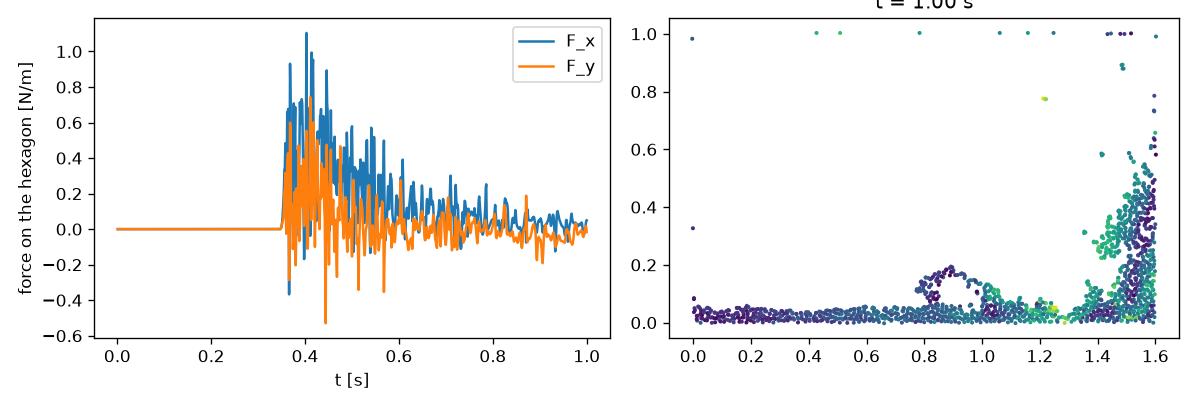
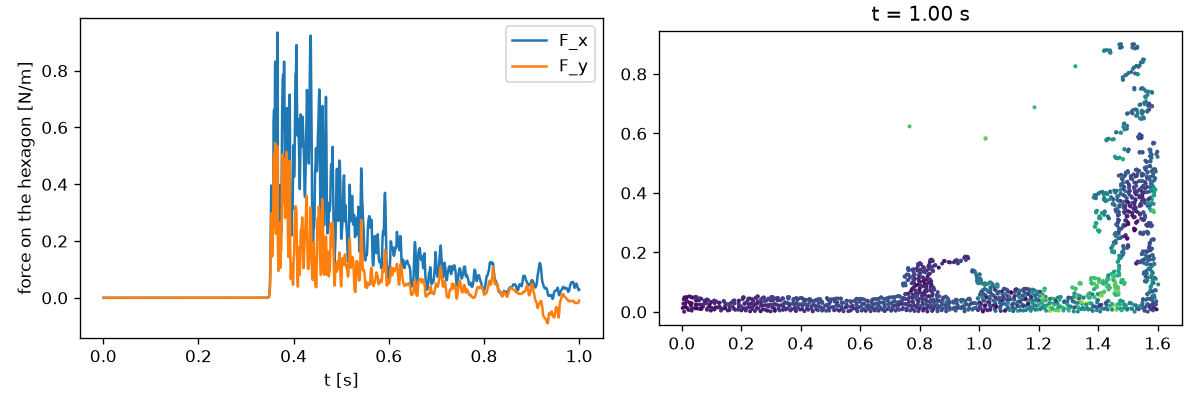
DFSPH: remove wall suction (ceiling/wall sticking), keep fluid cohesion; dam-break run and video tools
A moving body puts the wall into the divergence solve, where the signed divergence pressure acts as a wall suction, and the hydrostatic wall term is an
unclamped negative p_b at a ceiling. wallDivergenceClamp (default: iff the wall is in the divergence solve) clamps the pressure only in the wall term;
clampWallPressure clamps the effective wall pressure p_i + q at 0 (normal offset only, so representations still agree to round-off). Clamping the divergence
pressure of all particles removes the fluid cohesion (mean density 0.7), so divergenceClamp stays opt-in.

Dam break vs omniSPH at 2k and 8k particles matches (mean height 0.5 %, ceiling contact and residence), runs at 22k/33k particles.
dfsph_runcase (snapshot runs), dfsph_video (mp4, ceiling_stats), 2 regression tests, docs section 7, refreshed obstacle numbers and figure.

diff --git a/python/edgebound/dfsph2d.py b/python/edgebound/dfsph2d.py
@@ -170,13 +170,18 @@ class DFSPHConfig:
     maxIterations: int = 256
     divergenceMaxIterations: int = 3         # omniSPH: the divergence loop always runs exactly 4 iterations
     minIterations: int = 4
-    divergenceClamp: bool = False            # clamp the divergence pressure at >= 0 as the density pressure is (omniSPH does not; needed for many divergence iterations with a moving wall)
+    divergenceClamp: bool = False            # clamp the divergence pressure of ALL particles at >= 0 as the density pressure is (omniSPH does not: its negative divergence pressure is the cohesion that keeps
+                                             # the fluid together after a splash; clamping it expands the fluid by ~30 %).  Needed only for many divergence iterations with a moving wall
+    wallDivergenceClamp: Optional[bool] = None   # clamp the divergence pressure only where it enters the WALL acceleration (fluid-fluid terms keep the signed pressure).  None: iff the wall is in the divergence solve.
+                                             # An unclamped negative pressure there is a wall suction: with a moving body (wall in the divergence solve) a particle leaving a wall is pulled back and
+                                             # fluid sticks to every wall, ceiling included (docs/dfsph-validation.md s.8)
     boundaryInDivergence: Optional[bool] = None   # omniSPH's divergence solve ignores the wall; True adds the wall flux, alpha and wall pressure acceleration (no clamp);
                                                   # None: True iff a body moves (a moving wall has a normal velocity the divergence solve must see)
     recordForces: bool = True
     gradientCorrection: str = "none"         # 'wall': zeroth-order consistent wall closure (docs/dfsph-validation.md s.7): the wall gradient of the p_i terms is scaled so that a uniform pressure
                                              #   exerts no net force on a wall-contact particle, s_i = clip(-(sum_j V_j grad W_ij).n / |grad lambda|, 1 - kappa, 1 + kappa)
     closureLimit: float = 0.2                # kappa
+    clampWallPressure: bool = True          # p_b >= 0 (omniSPH clamps the extrapolated wall pressure in the density solve): the hydrostatic wall term can never be a suction, e.g. at a ceiling
     omega: float = 0.5
     xsph: float = 1e-4
     boundaryFriction: float = 5e-3
@@ -231,6 +236,7 @@ class DFSPH2D:
             self.sClose = self._closure()
             self.gk = self.sClose[:, None] * self.gk
             self._out1 = None
+            self._theta_q = None
         else:
             self.lam = torch.zeros_like(self.V)
             self.gk = torch.zeros_like(self.x)
@@ -307,8 +313,23 @@ class DFSPH2D:
             return torch.zeros((self.nb, len(self.x), 2) if perBody else self.x.shape, dtype=F64, device=self.dev)
         pp = p.clamp(min=0) if clamp else p
         pfac = (pp / self.rho ** 2 + pp) * self.sClose
-        out = -pfac[None, :, None] * self.gkb - self._a1_part(pp)
+        a1 = self._a1_part(pp)
+        if self.cfg.clampWallPressure and self.cfg.wallPressure == "hydrostatic":
+            a1 = a1 - self._wall_excess(pp)[:, :, None] * self.gkb
+        out = -pfac[None, :, None] * self.gkb - a1
         return out if perBody else out.sum(0)
+
+    def _wall_excess(self, pp):
+        """p_b >= 0.  To leading order the hydrostatic term mu int (a1.y) grad W is an effective wall pressure offset q (per body) times the wall gradient, q = (term . n) / |mu grad lambda|, n = grad lambda / |grad lambda|
+        (q < 0: the wall is above the particle, p_b = p_i + rho g.(x' - x_i) < p_i).  The effective wall pressure p_i + q is clamped at 0: with theta = clip(p_i / (-q), 0, 1) for q < 0 (theta = 1 where the wall is below or beside
+        the particle, or the particle's own pressure carries the offset) only the normal pressure offset is reduced, the term loses (1 - theta) q grad lambda (-> 0 continuously for q -> 0, so round-off cannot flip it; the tangential part is untouched)."""
+        if self._theta_q is None:
+            a1 = self._a1_part(pp)
+            eps = 1e-5 * self.cfg.wallMass / float(self.h.min())          # |mu grad lambda| ~ mu / h in contact: below 1e-5 of that the wall force is negligible and the ratio is round-off
+            self._theta_q = (a1 * self.gkb).sum(2) / (self.gkb * self.gkb).sum(2).clamp(min=eps * eps)
+        q = self._theta_q
+        theta = torch.where(q < 0, (pp[None, :] / (-q).clamp(min=1e-300)).clamp(0.0, 1.0), torch.ones_like(q))
+        return (1.0 - theta) * q
 
     def _a1_part(self, pp):
         """mu int (a1_i . y) grad W per body [B,N,2]."""
@@ -366,7 +387,7 @@ class DFSPH2D:
         counter = 0
         while True:
             clampP = density or cfg.divergenceClamp
-            pred = (self._boundary_accel(p2, clampP) if wall else torch.zeros_like(self.x)) + self._fluid_accel(p2)
+            pred = (self._boundary_accel(p2, density or clampP or self._clampWallDiv) if wall else torch.zeros_like(self.x)) + self._fluid_accel(p2)
             p1 = p2
             ks = dt * dt * self._sum(Vt[j] * ((pred[i] - pred[j]) * self.gW).sum(1))
             if wall:
@@ -383,7 +404,7 @@ class DFSPH2D:
                 break
         pred = self._fluid_accel(p2)
         if wall and self.scene is not None:
-            ab = self._boundary_accel(p2, density or cfg.divergenceClamp, perBody=True)                         # [B,N,2]: acceleration of the fluid by each body
+            ab = self._boundary_accel(p2, density or cfg.divergenceClamp or self._clampWallDiv, perBody=True)                         # [B,N,2]: acceleration of the fluid by each body
             pred = pred + ab.sum(0)
             self.forcePressure = self.forcePressure - (self.V[None, :, None] * ab).sum(1)    # force of the fluid on each body (m_i = V_i, rest density 1)
         if density:
@@ -395,6 +416,7 @@ class DFSPH2D:
     def step(self):
         cfg, dt = self.cfg, self.dt
         self._bdiv = cfg.boundaryInDivergence if cfg.boundaryInDivergence is not None else self._moving()
+        self._clampWallDiv = cfg.wallDivergenceClamp if cfg.wallDivergenceClamp is not None else self._bdiv
         self.forcePressure = torch.zeros((self.nb, 2), dtype=F64, device=self.dev)
         self.forceFriction = torch.zeros((self.nb, 2), dtype=F64, device=self.dev)
         self._prepare()

diff --git a/python/edgebound/dfsph_video.py b/python/edgebound/dfsph_video.py
@@ -1,0 +1,90 @@
+"""Render dam-break snapshots (npz from `.tmp/omni/runcase.py`-style runs: t, x [F,N,2], v, rho, p, lo, hi, r) as an mp4, one panel per run, particles coloured by speed.
+
+    python -m edgebound.dfsph_video out.mp4 "omniSPH=runs/omni.npz" "ours=runs/ours.npz" [--vmax 5] [--fps 30]
+"""
+import subprocess
+import sys
+
+import numpy as np
+
+
+def render(out, runs, vmax=5.0, fps=30, width=None, color="speed", t_max=None):
+    import matplotlib
+    matplotlib.use("Agg")
+    import matplotlib.pyplot as plt
+    from matplotlib.patches import Polygon
+    data = [(name, np.load(f)) for name, f in runs]
+    nF = min(len(d["t"]) for _, d in data)
+    if t_max is not None:
+        nF = min(nF, int(np.searchsorted(data[0][1]["t"], t_max)) + 1)
+    lo, hi = data[0][1]["lo"], data[0][1]["hi"]
+    width = width or (7.0 if data[0][1]["x"].shape[1] < 5000 else 11.0)          # more pixels per particle at high counts
+    pad, padTop = 0.05, 0.14
+    ar = (hi[1] - lo[1] + pad + padTop) / (hi[0] - lo[0] + 2 * pad)
+    k = len(data)
+    fig, axs = plt.subplots(k, 1, figsize=(width, width * ar * k + 0.5 * k), dpi=100, squeeze=False)
+    axs = axs[:, 0]
+    r = float(data[0][1]["r"])
+    # marker size in points^2 for a disc of radius ~ r (the lattice spacing is 0.89 h / sqrt(20) ... ~ 1.79 r): s = (2 r px)^2
+    fig.canvas.draw()
+    w_px = axs[0].get_window_extent().width
+    pt = (2 * r * 1.0) / (hi[0] - lo[0] + 2 * pad) * w_px * 72 / fig.dpi
+    sc = []
+    for ax, (name, d) in zip(axs, data):
+        ax.set_xlim(lo[0] - pad, hi[0] + pad)
+        ax.set_ylim(lo[1] - pad, hi[1] + padTop)
+        ax.set_aspect("equal")
+        ax.plot([lo[0], hi[0], hi[0], lo[0], lo[0]], [lo[1], lo[1], hi[1], hi[1], lo[1]], "k-", lw=1.2)
+        ax.set_xticks([])
+        ax.set_yticks([])
+        s = ax.scatter(d["x"][0][:, 0], d["x"][0][:, 1], s=pt ** 2, c=np.zeros(len(d["x"][0])), cmap="viridis", vmin=0, vmax=vmax, marker="o", linewidths=0)
+        lab = ax.text(0.005, 0.995, name, transform=ax.transAxes, va="top", ha="left", fontsize=10, fontweight="bold")
+        tt = ax.text(0.995, 0.995, "", transform=ax.transAxes, va="top", ha="right", fontsize=10)
+        lab.set_in_layout(False)
+        tt.set_in_layout(False)
+        sc.append((s, lab))
+        if "body" in d.files:                                                       # hexagonal obstacle (circumradius 0.06, pose [cx, cy, angle]) as a patch
+            ax.add_patch(Polygon(np.zeros((6, 2)), closed=True, facecolor="0.55", edgecolor="k", lw=1.0, zorder=3))
+    fig.tight_layout(pad=0.4)
+    fig.canvas.draw()
+    W, H = fig.canvas.get_width_height()
+    W, H = W - W % 2, H - H % 2
+    cmd = ["ffmpeg", "-y", "-loglevel", "error", "-f", "rawvideo", "-pix_fmt", "rgba", "-s", f"{fig.canvas.get_width_height()[0]}x{fig.canvas.get_width_height()[1]}", "-r", str(fps), "-i", "-",
+           "-vf", f"crop={W}:{H}:0:0", "-c:v", "libx264", "-pix_fmt", "yuv420p", "-crf", "20", out]
+    p = subprocess.Popen(cmd, stdin=subprocess.PIPE)
+    for f in range(nF):
+        for (s, _), ax, (name, d) in zip(sc, axs, data):
+            s.set_offsets(d["x"][f])
+            val = np.linalg.norm(d["v"][f], axis=1) if color == "speed" else d["p"][f]
+            s.set_array(val)
+            ax.texts[-1].set_text(f"t = {d['t'][f]:.3f} s")
+            if "body" in d.files:
+                cx, cy, a = d["body"][f]
+                k6 = a + np.arange(6) * np.pi / 3
+                ax.patches[-1].set_xy(np.stack([cx + 0.06 * np.cos(k6), cy + 0.06 * np.sin(k6)], 1))
+        fig.canvas.draw()
+        p.stdin.write(np.asarray(fig.canvas.buffer_rgba()).tobytes())
+    p.stdin.close()
+    p.wait()
+    plt.close(fig)
+
+
+def ceiling_stats(npz, top=1.0, band=None):
+    """sticking diagnostics of a snapshot file: (t, number of particles within `band` (1.5 h) of the ceiling per snapshot, longest uninterrupted residence of each particle there [s]).
+    A splash touches the ceiling for ~0.2-0.3 s (omniSPH: 0.22-0.29 s); a wall suction holds particles there for 0.7 s and more."""
+    d = np.load(npz)
+    t, x, band = d["t"], d["x"], band or 1.5 * float(d["h"])
+    near = x[:, :, 1] > top - band
+    run = np.zeros(x.shape[1], int)
+    best = np.zeros(x.shape[1], int)
+    for i in range(len(t)):
+        run = np.where(near[i], run + 1, 0)
+        best = np.maximum(best, run)
+    return t, near.sum(1), best * (t[1] - t[0])
+
+
+if __name__ == "__main__":
+    args = [a for a in sys.argv[1:] if not a.startswith("--")]
+    opts = {a.split("=")[0][2:]: a.split("=")[1] for a in sys.argv[1:] if a.startswith("--") and "=" in a}
+    runs = [tuple(a.rsplit("=", 1)) for a in args[1:]]
+    render(args[0], runs, vmax=float(opts.get("vmax", 5.0)), fps=int(opts.get("fps", 30)), t_max=float(opts["tmax"]) if "tmax" in opts else None)

diff --git a/python/edgebound/dfsph_runcase.py b/python/edgebound/dfsph_runcase.py
@@ -1,0 +1,77 @@
+"""Dam-break snapshot runs for the videos / omniSPH comparison:  cd .tmp/omni (a directory with a `cfg` symlink to omniSPH/cfg for the omni backend);
+   python -m edgebound.dfsph_runcase <backend> <r> <T> <out.npz> [key=value ...]
+backend: omni | volume | surface | sdf   (ours with that domain representation) | hex (dam break into a spinning hexagon, calibrated lattice, surface loops)  extra key=value go to DFSPHConfig (ours) / are ignored (omni).
+Dam break (column 0.2 x 0.8 m at the left, box 1.6 x 1.0 m).  Saves snapshots every `fps` simulated seconds: x, v, rho, p."""
+import sys, time
+
+import numpy as np
+
+from . import dfsph_ref as R
+from .dfsph2d import DFSPH2D, DFSPHConfig, domain_scene, lattice_calibration
+
+backend, r, T, out = sys.argv[1], float(sys.argv[2]), float(sys.argv[3]), sys.argv[4]
+kw = {}
+for a in sys.argv[5:]:
+    k, v = a.split("=")
+    kw[k] = v if v in ("hydrostatic", "linear", "mirror", "wall", "none", "surface", "volume", "sdf") else (v == "True" if v in ("True", "False") else float(v) if "." in v or "e" in v else int(v))
+fps = kw.pop("fps", 60)
+calib = kw.pop("calib", 0)                      # 1: calibrated rest lattice (V', wall mass 1/S, first row at 0.551 dx); 0: omniSPH conventions
+fmin, fmax, top, right = (0.1, 0.1), (0.3, 0.9), 1.0, 1.6
+omega = kw.pop("omega", 3.0)
+bodies = []
+if backend == "hex":                                   # the dam break into a spinning hexagon of dfsph_validation.obstacle (calibrated lattice, surface loop domain)
+    from .dfsph_cases import tank_with_obstacle
+    sim, info = tank_with_obstacle(L=1.6, H=1.0, fill=0.8, fluidWidth=0.2, Rh=0.06, center=(0.9, 0.11), omega=omega, device="cuda:0", r=r)
+    sim.cfg.__dict__.update(kw)
+    n, h, lo, hi = len(sim.x), info["h"], info["lo"], np.array([1.6, 1.0])
+    c = None
+else:
+    c = R.omni_case(r, fmin, fmax, top=top, right=right)
+if c is not None:
+    n, h = c["n"], float(c["h"][0])
+    sp = np.array([c["dx"], c["dy"]])
+    lo = np.array(fmin) - sp
+    hi = np.array([right, top])
+snaps = dict(t=[], x=[], v=[], rho=[], p=[], body=[])
+dev = "cuda:0"
+t0 = time.time()
+nextSnap = 0.0
+if backend == "omni":
+    import omnySPH
+    sim = omnySPH.SPHSimulation(R._yaml(r, fmin, fmax, lo - c["epsAdj"], hi + c["epsAdj"], 0.06))
+    t = 0.0
+    while t < T:
+        if t >= nextSnap - 1e-12:
+            st = R.omni_state(sim, n)
+            for k_, v_ in (("t", t), ("x", st["x"]), ("v", st["v"]), ("rho", st["rho"]), ("p", st["p"])):
+                snaps[k_].append(v_)
+            nextSnap += 1.0 / fps
+        sim.timestep()
+        t = sim.getScalar("sim.time")
+elif backend == "hex":
+    while sim.time < T:
+        if sim.time >= nextSnap - 1e-12:
+            for k_, v_ in (("t", sim.time), ("x", sim.x.cpu().numpy().copy()), ("v", sim.v.cpu().numpy().copy()), ("rho", sim.rho.cpu().numpy().copy()), ("p", sim.p.cpu().numpy().copy())):
+                snaps[k_].append(v_)
+            b = sim.scene.bodies[1]
+            snaps["body"].append(np.array([float(b.center[0]), float(b.center[1]), float(b.angle)]))
+            nextSnap += 1.0 / fps
+        sim.step()
+else:
+    x, V = c["x"], c["V"]
+    wm = 1.0
+    if calib:
+        cal = lattice_calibration(c["dx"], c["dy"], h)
+        V, wm = cal["V"], cal["mu"]
+        lo = x.min(0) - np.array([cal["dwallX"], cal["dwallY"]])
+    cfg = DFSPHConfig(wallMass=wm, **kw)
+    sim = DFSPH2D(x, np.zeros_like(x), V, c["h"], domain_scene(backend, lo, hi, h, dev), cfg, dev)
+    while sim.time < T:
+        if sim.time >= nextSnap - 1e-12:
+            for k_, v_ in (("t", sim.time), ("x", sim.x.cpu().numpy().copy()), ("v", sim.v.cpu().numpy().copy()), ("rho", sim.rho.cpu().numpy().copy()), ("p", sim.p.cpu().numpy().copy())):
+                snaps[k_].append(v_)
+            nextSnap += 1.0 / fps
+        sim.step()
+snaps = {k: np.array(v) for k, v in snaps.items() if len(v)}
+np.savez(out, **snaps, lo=lo, hi=hi, r=r, h=h)
+print(f"{backend} r={r} N={n} T={T}: {len(snaps['t'])} snapshots, wall {time.time() - t0:.0f} s", flush=True)

diff --git a/tests/edge/test_dfsph.py b/tests/edge/test_dfsph.py
@@ -230,3 +230,48 @@ def test_closure_keeps_the_force_bookkeeping_and_tight_solves_with_a_moving_body
         sim.step()
     assert max(h["balance"] for h in sim.history) < 1e-13
     assert torch.isfinite(sim.x).all() and float(sim.v.norm(dim=1).max()) < 5.0
+
+
+@pytest.mark.parametrize("device", DEVICES)
+def test_a_particle_leaving_a_wall_is_not_pulled_back_when_a_body_moves(device):
+    """a moving body puts the wall into the divergence solve; with an unclamped divergence pressure a particle that leaves the ceiling feels the wall term as suction and is stopped (fluid sticks to every wall).
+    Isolated particle at the ceiling moving away at 1 m/s, no gravity, a rotating hexagon elsewhere in the box: the default (clamped) keeps the velocity, the unclamped solve cancels it."""
+    r = 0.006
+    h = r * np.sqrt(20.0)
+    dx = D.PACKING * h
+    cal = D.lattice_calibration(dx, dx, h)
+    H = 0.3
+    out = {}
+    for clamp in (None, False):
+        dom = D.domain_scene("surface", (0.0, 0.0), (0.4, H), h, device).bodies[0]
+        hexa = Body(bodyId=1, center=(0.3, 0.1), angularVelocity=3.0, reps=[C.hexagon(0.04, "surface")])
+        sim = D.DFSPH2D(np.array([[0.1, H - 0.5 * dx]]), np.array([[0.0, -1.0]]), cal["V"], np.array([h]), Scene([dom, hexa], device),
+                        D.DFSPHConfig(gravity=(0.0, 0.0), wallMass=cal["mu"], wallDivergenceClamp=clamp), device)
+        for _ in range(30):
+            sim.step()
+        out[clamp] = float(sim.v[0, 1])
+    assert out[None] < -0.99                    # keeps leaving the wall
+    assert out[False] > -0.1                    # the old behaviour: stopped at the wall
+
+
+@pytest.mark.parametrize("device", DEVICES)
+def test_divergence_pressure_keeps_its_sign_between_fluid_particles(device):
+    """the negative divergence pressure is the cohesion of omniSPH's solver (a stretching blob is pulled back together).  With a moving body (wall in the divergence solve) the default must keep it:
+    same damping of the stretching as the wall-blind solve; clamping the divergence pressure of all particles (`divergenceClamp`) removes it and the fluid expands (mean density 0.7 after a splash)."""
+    r = 0.006
+    h = r * np.sqrt(20.0)
+    dx = D.PACKING * h
+    cal = D.lattice_calibration(dx, dx, h)
+    pos = lattice(12, 12, dx, dx, 0.2, 0.1)
+    c = pos.mean(0)
+    vr = {}
+    for name, kw in (("default", {}), ("global", dict(divergenceClamp=True)), ("blind", dict(boundaryInDivergence=False))):
+        dom = D.domain_scene("surface", (0, 0), (0.6, 0.4), h, device).bodies[0]
+        hexa = Body(bodyId=1, center=(0.45, 0.2), angularVelocity=3.0, reps=[C.hexagon(0.04, "surface")])
+        sim = D.DFSPH2D(pos, 0.5 * (pos - c), cal["V"], np.full(len(pos), h), Scene([dom, hexa], device), D.DFSPHConfig(gravity=(0, 0), wallMass=cal["mu"], **kw), device)
+        for _ in range(40):
+            sim.step()
+        d = sim.x - sim.x.mean(0)
+        vr[name] = float((((sim.v - sim.v.mean(0)) * d).sum(1) / d.norm(dim=1).clamp(min=1e-9)).mean())
+    assert abs(vr["default"] - vr["blind"]) < 0.1 * vr["blind"] + 1e-4
+    assert vr["global"] > 5 * vr["default"]

diff --git a/docs/dfsph-validation.md b/docs/dfsph-validation.md
@@ -1,6 +1,6 @@
 # DFSPH on the scene boundary layer: validation against omniSPH (2D)
 
-**Status:** [V] — solver `python/edgebound/dfsph2d.py`, omniSPH reference `dfsph_ref.py`, tables `python -m edgebound.dfsph_validation`, tests `tests/edge/test_dfsph.py` (4).
+**Status:** [V] — solver `python/edgebound/dfsph2d.py`, omniSPH reference `dfsph_ref.py`, tables `python -m edgebound.dfsph_validation`, tests `tests/edge/test_dfsph.py` (12).
 Purpose: use the scene layer (`scene-architecture.md`) in a real solver, with a domain body instead of boundary particles, before 3D.
 
 ## 1. The solver
@@ -91,15 +91,16 @@ operation: the contribution of each body separately), the friction force `Σ m_i
 
 | case (tank 0.6 × 0.30 m, r = 0.005, 0.6 s) | rep | mean `F_y` on the body (t > 0.2) | buoyancy `ρ g A` | mean `F_x` | Σ forces on all bodies / (−weight) | max momentum residual |
 |---|---|---|---|---|---|---|
-| fixed | surface | 0.09250 | 0.09175 | +0.00024 | 0.99939 | 2e-18 |
-| fixed | volume | 0.09250 | 0.09175 | +0.00024 | 0.99939 | 2e-18 |
-| ω = 3 rad/s | surface | 0.08643 | 0.09175 | +0.00175 | 0.99792 | 1e-18 |
-| ω = 3 rad/s | volume | 0.08736 | 0.09175 | +0.00093 | 0.99919 | 1e-18 |
+| fixed | surface | 0.09190 | 0.09175 | -0.00150 | 1.00008 | 9e-19 |
+| fixed | volume | 0.09190 | 0.09175 | -0.00150 | 1.00008 | 2e-18 |
+| ω = 3 rad/s | surface | 0.09038 | 0.09175 | +0.00223 | 1.00319 | 1e-18 |
+| ω = 3 rad/s | volume | 0.08945 | 0.09175 | +0.00219 | 0.99748 | 1e-18 |
 
-* the fixed body feels the Archimedes force within **0.8 %** (time average; the instantaneous force scatters by ±20 % like every SPH wall force, see §2), and the walls plus the body carry the fluid weight within 0.06 %;
-* the spinning body's mean force is 5–6 % below buoyancy (the rotation drives a flow; friction is 1e-4 of the pressure force at `μ = 5e-3`); surface and volume representation give identical forces for the first steps
+* the fixed body feels the Archimedes force within **0.2 %** (time average; the instantaneous force scatters by ±20 % like every SPH wall force, see §2), and the walls plus the body carry the fluid weight within 0.01 %;
+  (numbers after the wall-suction fixes of §7; before: 0.8 % / 0.06 % and 5–6 % below buoyancy for the spinning body, whose wall suction was part of that deficit);
+* the spinning body's mean force is 1.5–2.5 % below buoyancy (the rotation drives a flow; friction is 1e-4 of the pressure force at `μ = 5e-3`); surface and volume representation give identical forces for the first steps
   (`test_surface_and_volume_obstacles_give_the_same_forces`, 1e-9) and then separate through the chaos of the flow;
-* dam break (0.2 × 0.8 m column, box 1.6 × 1.0 m, 1425 particles) into a hexagon spinning at 3 rad/s: no force until the surge arrives (t = 0.36 s), peak horizontal force 1.10 N/m at t = 0.40 s, decaying afterwards
+* dam break (0.2 × 0.8 m column, box 1.6 × 1.0 m, 1425 particles) into a hexagon spinning at 3 rad/s: no force until the surge arrives (t = 0.36 s), peak horizontal force 0.93 N/m at t = 0.37 s, decaying afterwards
   (`results/dfsph/dam_hexagon.png`).
 * Not tracked: the **torque** on the body. For a linear pressure field it needs the second moments `∫ y_a y_b ∇W` (exact for surface loops via `|α| = 2` edge channels, not for P1 volume weights); the force is exact.
 
@@ -141,10 +142,60 @@ the force on each body is still `−Σ m a_b`. The closure removes the static wa
   weight), at unchanged mean (buoyancy within 0.1 %): this is the regime where the wall-row inconsistency is no longer hidden by the loose solve;
 * with omniSPH's loose tolerances (4 iterations) there is no gain (the solver stops before the wall-row balance matters), with a clamped divergence pressure none either — so the closure is **not** the default;
 * the whole-tank rms speed (0.046 m/s) is the interior noise of the lattice (`0.43 m/s²` first-order inconsistency of the symmetric fluid–fluid operator, relaxed by DFSPH), not a wall effect; it is unchanged;
-* **a moving body needs the divergence pressure clamped for tight solves**: with 200 divergence iterations and an unclamped divergence pressure the tank with the spinning hexagon diverges after 0.22 s
-  (`divergenceClamp=True` fixes it; omniSPH's 4 iterations are fine either way).
+* **a moving body needs the divergence pressure clamped in the wall term for tight solves**: with 200 divergence iterations and an unclamped divergence pressure the tank with the spinning hexagon diverges after 0.22 s
+  (now the default for a moving body, `wallDivergenceClamp`, §7; `divergenceClamp=True` clamps the fluid–fluid pressure as well and works too, but expands the fluid, §7).
 
-## 7. Not done / next
+## 7. Walls must not pull: sticking to ceilings and walls (`wallDivergenceClamp`, `clampWallPressure`)
+
+**Symptom.** In the dam break into the spinning hexagon (`dfsph_cases.tank_with_obstacle`, r = 0.006, 1425 particles) isolated particles stayed pinned on the ceiling and on both side walls after the splash
+(row of dots at y = 1.0, nearly zero velocity); the same dam break without the hexagon, and omniSPH, show nothing of the kind. Found with `python -m edgebound.dfsph_runcase` snapshots and `dfsph_video.ceiling_stats`
+(particles within 1.5 h of the ceiling and the longest uninterrupted residence of each).
+
+**Two independent causes** (`hex` = the hexagon case; N = particles; "stuck" = residence at the ceiling > 0.3 s):
+
+| variant | stuck (r = 0.003, N = 5.5k) | longest ceiling residence |
+|---|---|---|
+| before | 14 (r = 0.006, N = 1.4k) | 0.73 s |
+| wall divergence clamp only | 1 | 0.65 s |
+| `p_b ≥ 0` clamp only | 20 | 0.78 s |
+| **both (default)** | **0** | **0.19 s** |
+
+1. **The wall in the divergence solve.** A moving body makes `boundaryInDivergence` true (the wall's normal velocity has to enter the source term; omniSPH's divergence solve ignores the wall altogether). The divergence pressure is signed
+   (its negative part is the cohesion of the fluid), and with the wall term in the same iteration a negative `p_i` is a suction: a particle that leaves a wall has a positive velocity divergence from the wall,
+   the solve answers with a negative pressure and the wall pulls it back. Regression test: an isolated particle leaving the ceiling at 1 m/s keeps it (−1.0000) with the fix, is stopped (≈ 0) without
+   (`test_a_particle_leaving_a_wall_is_not_pulled_back_when_a_body_moves`). **Fix: `wallDivergenceClamp` (default: iff the wall is in the divergence solve) clamps the pressure only where it enters the wall acceleration.**
+2. **The unclamped hydrostatic wall pressure.** `p_b(x') = p_i + ρ g·(x' − x_i)` is below `p_i` for a wall above the particle, and negative for a particle with little pressure: the term `μ∫(a₁·y)∇W` does not
+   depend on `p_i` at all and, at a ceiling, is a suction that carries the particle's weight (a particle at y = 1.002, v_y = 0.00 for 0.6 s). omniSPH clamps the extrapolated wall pressure at 0 in the density solve.
+   To leading order the term is a pressure offset `q` (per body) times the wall gradient, `q = (term·∇λ)/|∇λ|²`; **`clampWallPressure` (default on) removes `(1 − θ) q ∇λ` with `θ = clip(p_i/(−q), 0, 1)` for `q < 0`**,
+   i.e. clamps the effective wall pressure `p_i + q` at 0 (floors and side walls: `q ≥ 0` or ≈ 0, unchanged). Only the normal offset is touched: the discontinuous version (scaling the whole term by θ) makes the volume and surface
+   representation disagree by 2e-4 after 30 steps because round-off flips θ for `q ≈ 0`; with this form they agree to 2e-16 again (`test_dynamics_independent_of_the_representation`).
+
+**What not to do: clamp the divergence pressure of all particles** (`divergenceClamp=True`, my first fix): it removes the sticking too, but the signed divergence pressure is also the cohesion between fluid particles; after the splash the
+fluid stays apart and its volume grows by ~30 % (mean SPH density 0.69–0.74 and half the particles below 0.7, against 0.95–0.99 for the unclamped solve; spotted from the videos).
+`test_divergence_pressure_keeps_its_sign_between_fluid_particles`: a stretching blob is damped exactly as in the wall-blind solve with the default, not with the global clamp.
+
+**Result, dam break (0.2 × 0.8 m column, 1.6 × 1.0 m box) against omniSPH**, final code, front x / mean y / v_max; ceiling = particles within 1.5 h of the top wall at t = 0.7 / 0.8 / 0.9 / 1.0 and the longest residence
+(`.tmp/omni`, `python -m edgebound.dfsph_runcase`; omniSPH 303 s (2k) and 1877 s (8k) on 20 cores, ours 30–60 s on the GPU):
+
+| N | model | t = 0.4 | t = 0.8 | t = 1.0 | t = 1.4 | ceiling contact | longest |
+|---|---|---|---|---|---|---|---|
+| 2093 | omniSPH | 1.218 / 0.178 / 3.7 | 1.597 / 0.292 / 3.9 | 1.597 / 0.327 / 4.8 | 1.596 / 0.180 / 3.0 | 47 / 63 / 49 / 7 | 0.29 s |
+| | ours, omniSPH slabs (`VolumeRep`) | 1.213 / 0.179 / 3.8 | 1.598 / 0.292 / 4.2 | 1.598 / 0.329 / 5.3 | 1.597 / 0.181 / 4.3 | 44 / 63 / 52 / 5 | 0.27 s |
+| | ours, tier 2 surface loop | 1.220 / 0.184 / 3.8 | 1.599 / 0.296 / 3.8 | 1.598 / 0.333 / 5.0 | 1.597 / 0.180 / 4.8 | 45 / 72 / 49 / 5 | 0.24 s |
+| | ours, tier 3 SDF | 1.222 / 0.184 / 3.8 | 1.598 / 0.295 / 4.6 | 1.598 / 0.331 / 5.4 | 1.596 / 0.175 / 3.5 | 37 / 61 / 58 / 6 | 0.24 s |
+| 8280 | omniSPH | 1.245 / 0.181 / 3.8 | 1.599 / 0.304 / 5.5 | 1.598 / 0.340 / 5.9 | 1.598 / 0.189 / 4.7 | 150 / 154 / 116 / 0 | 0.22 s |
+| | ours, tier 2 surface loop | 1.243 / 0.183 / 3.7 | 1.599 / 0.305 / 7.0 | 1.599 / 0.342 / 6.0 | 1.599 / 0.187 / 5.6 | 144 / 129 / 110 / 0 | 0.22 s |
+| | ours, tier 3 SDF | 1.240 / 0.183 / 3.7 | 1.599 / 0.305 / 5.2 | 1.599 / 0.343 / 8.3 | 1.598 / 0.187 / 4.7 | 145 / 143 / 120 / 0 | 0.22 s |
+| 32669 | ours, tier 2 surface loop (omniSPH: ~3 h, not run) | 1.251 / 0.183 / 3.7 | 1.600 / 0.308 / 6.9 | 1.600 / 0.345 / 6.3 | 1.599 / 0.198 / 4.5 | 341 / 270 / 195 / 0 | 0.29 s |
+
+Mean height within 0.5 % of omniSPH at 8k particles, the front within 0.3 %, ceiling contact and its duration the same (the splash touches the ceiling for 0.2–0.3 s and is gone by t = 1.0); v_max is the scatter of single
+splash particles. Hexagon dam break, mean SPH density at t = 1.0 / ceiling residence: 0.950 / 0.20 s (N = 1.4k), 0.970 / 0.17 s (5.5k), 0.983 / 0.14 s (22k), against 0.954 / 0.73 s before.
+
+**Remaining.** A few particles slide along a wall for 0.4–0.9 s above the pile (isolated, density 0.8–1): that is the wall friction of omniSPH (`boundaryFriction` is a per-step factor, so it damps more at higher N where dt is
+smaller), not a suction: they move at 20–30 % of g. omniSPH itself has such particles (6 over 0.3 s at N = 2k). `linear` wall pressure still diverges in a long dam break (positions overflow before t = 2 s).
+Videos of these runs (`python -m edgebound.dfsph_video`) are in `.tmp/omni/vids`, not tracked.
+
+## 8. Not done / next
 
 * the boundary force of omniSPH (`log.txt`) is not compared (our `wallForce` = `−Σ m a_b` is available per step);
 * omniSPH's barycentric (`sim.barycentricPressure`) MLS pressure at the triangle vertices is not reproduced: it would need nodal data on a refined wall layer (`volumeMode='nodal'`);
